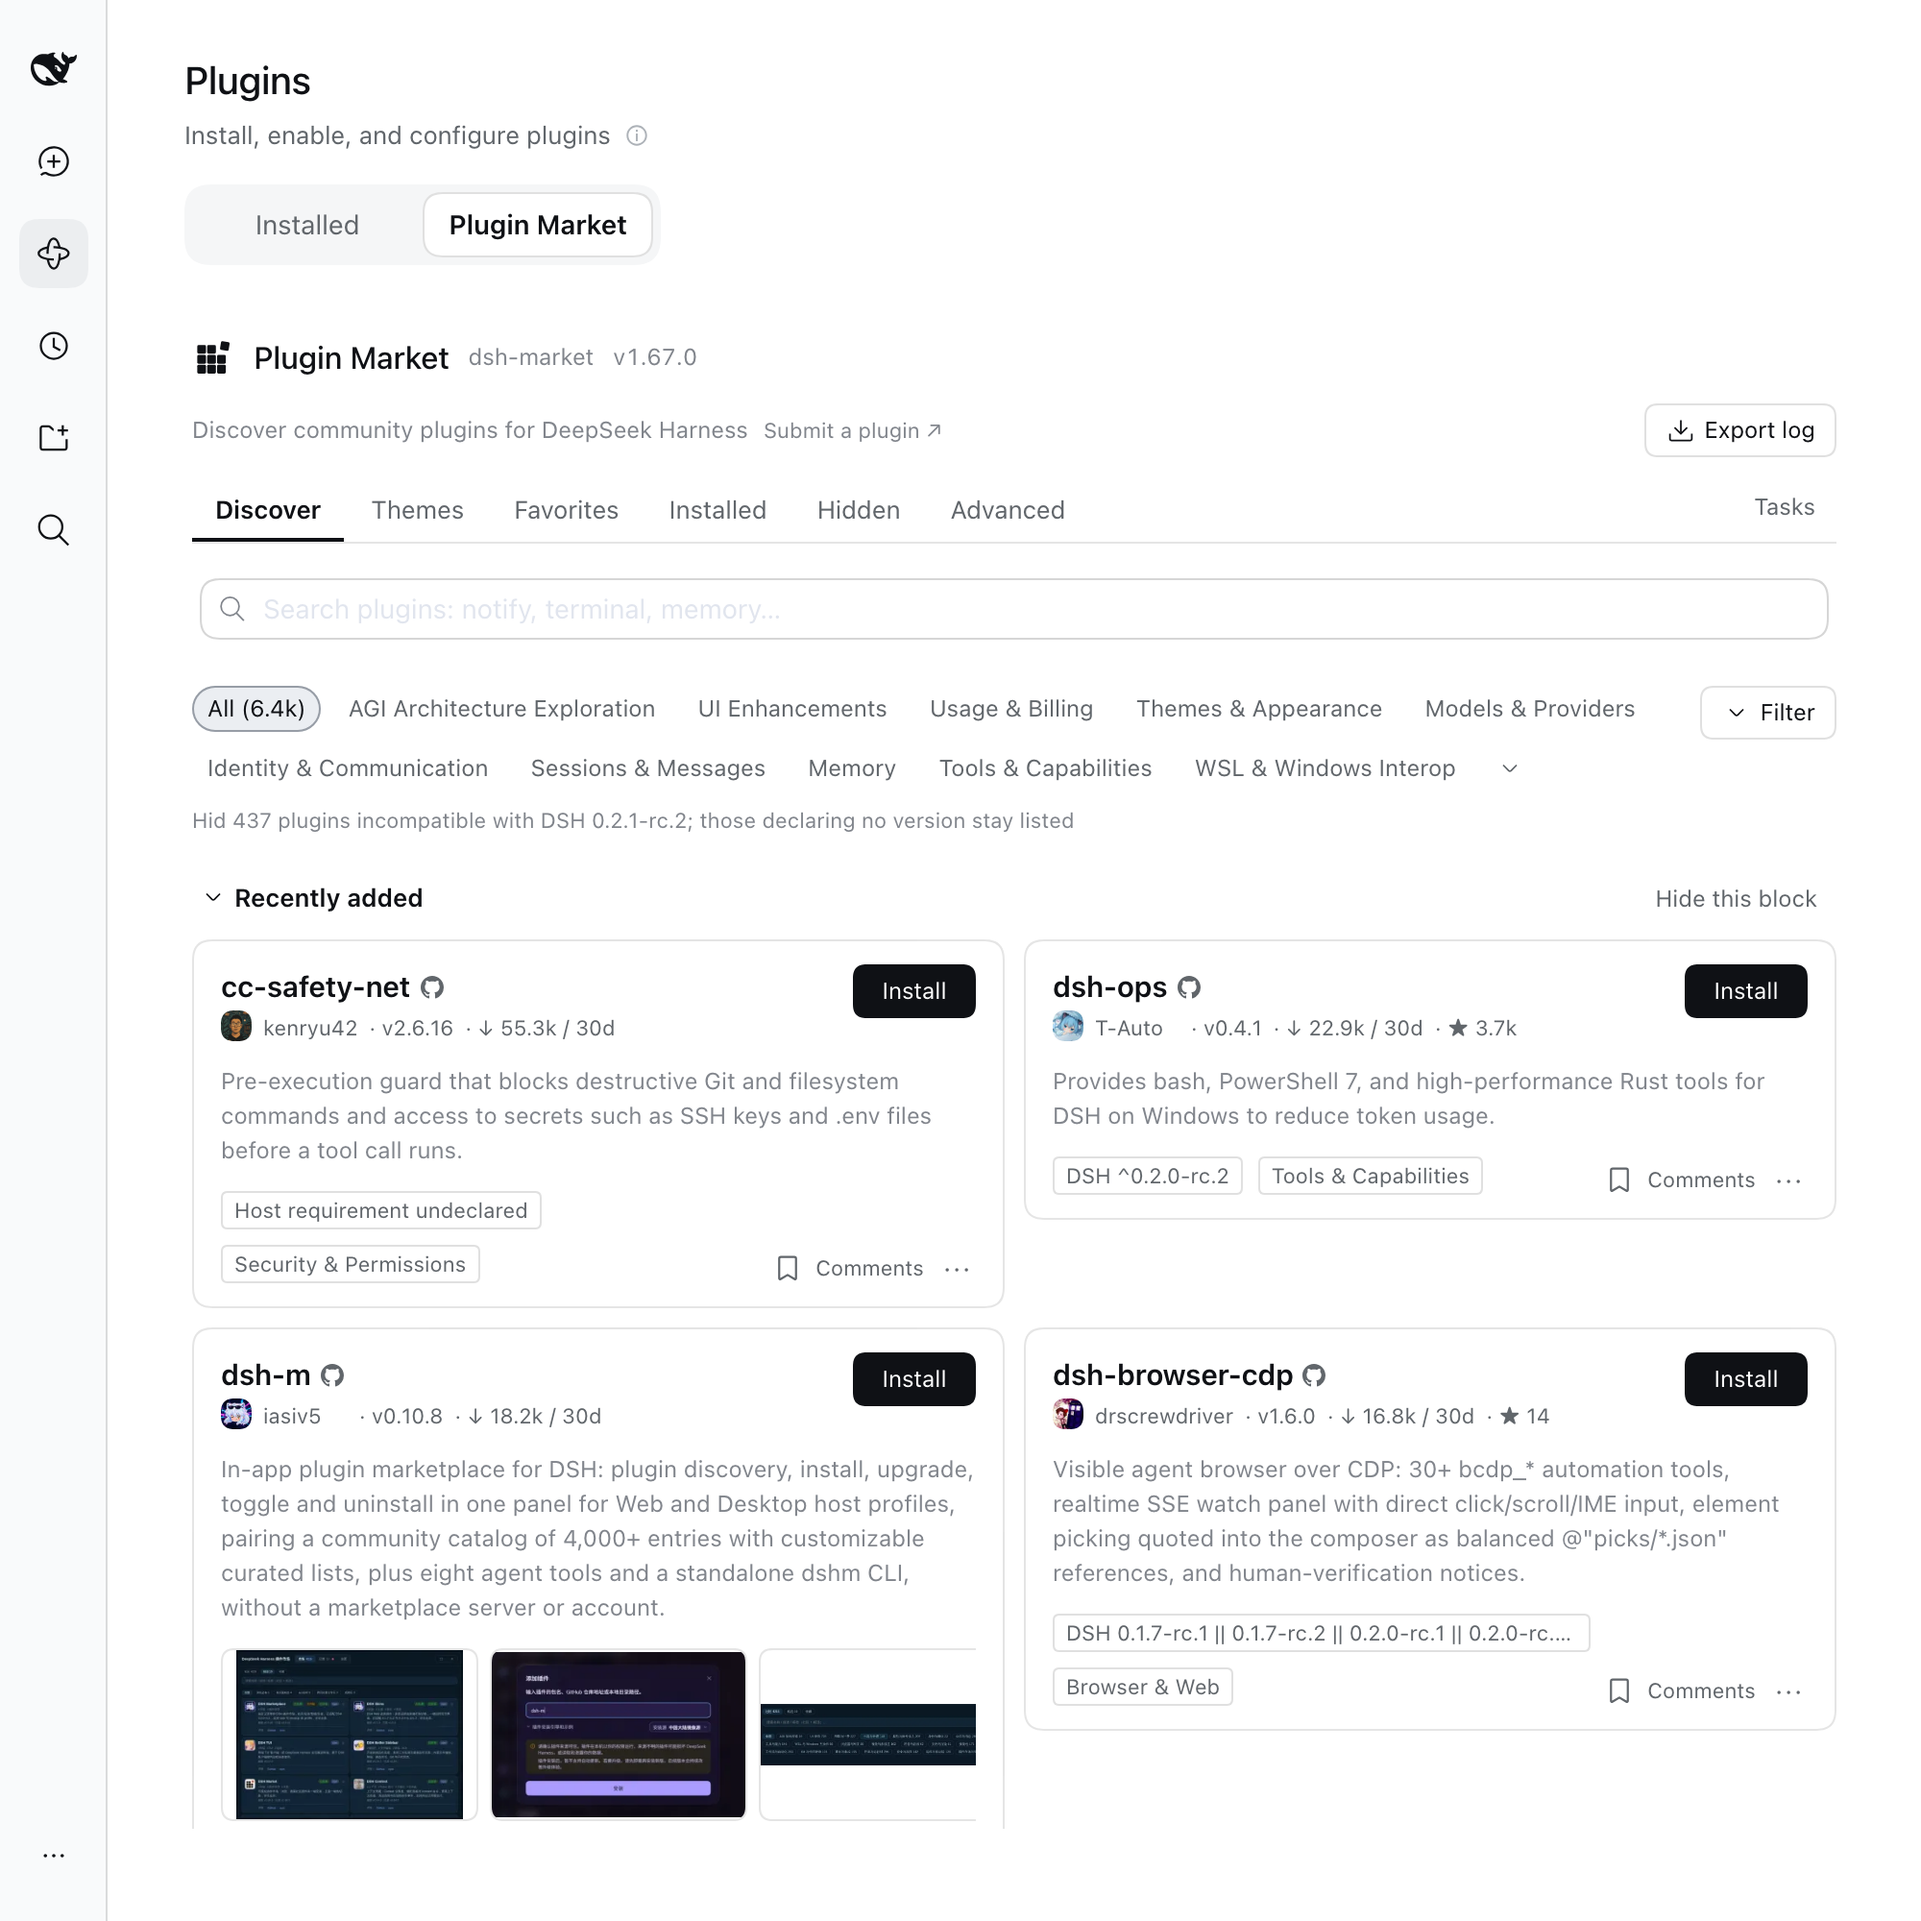
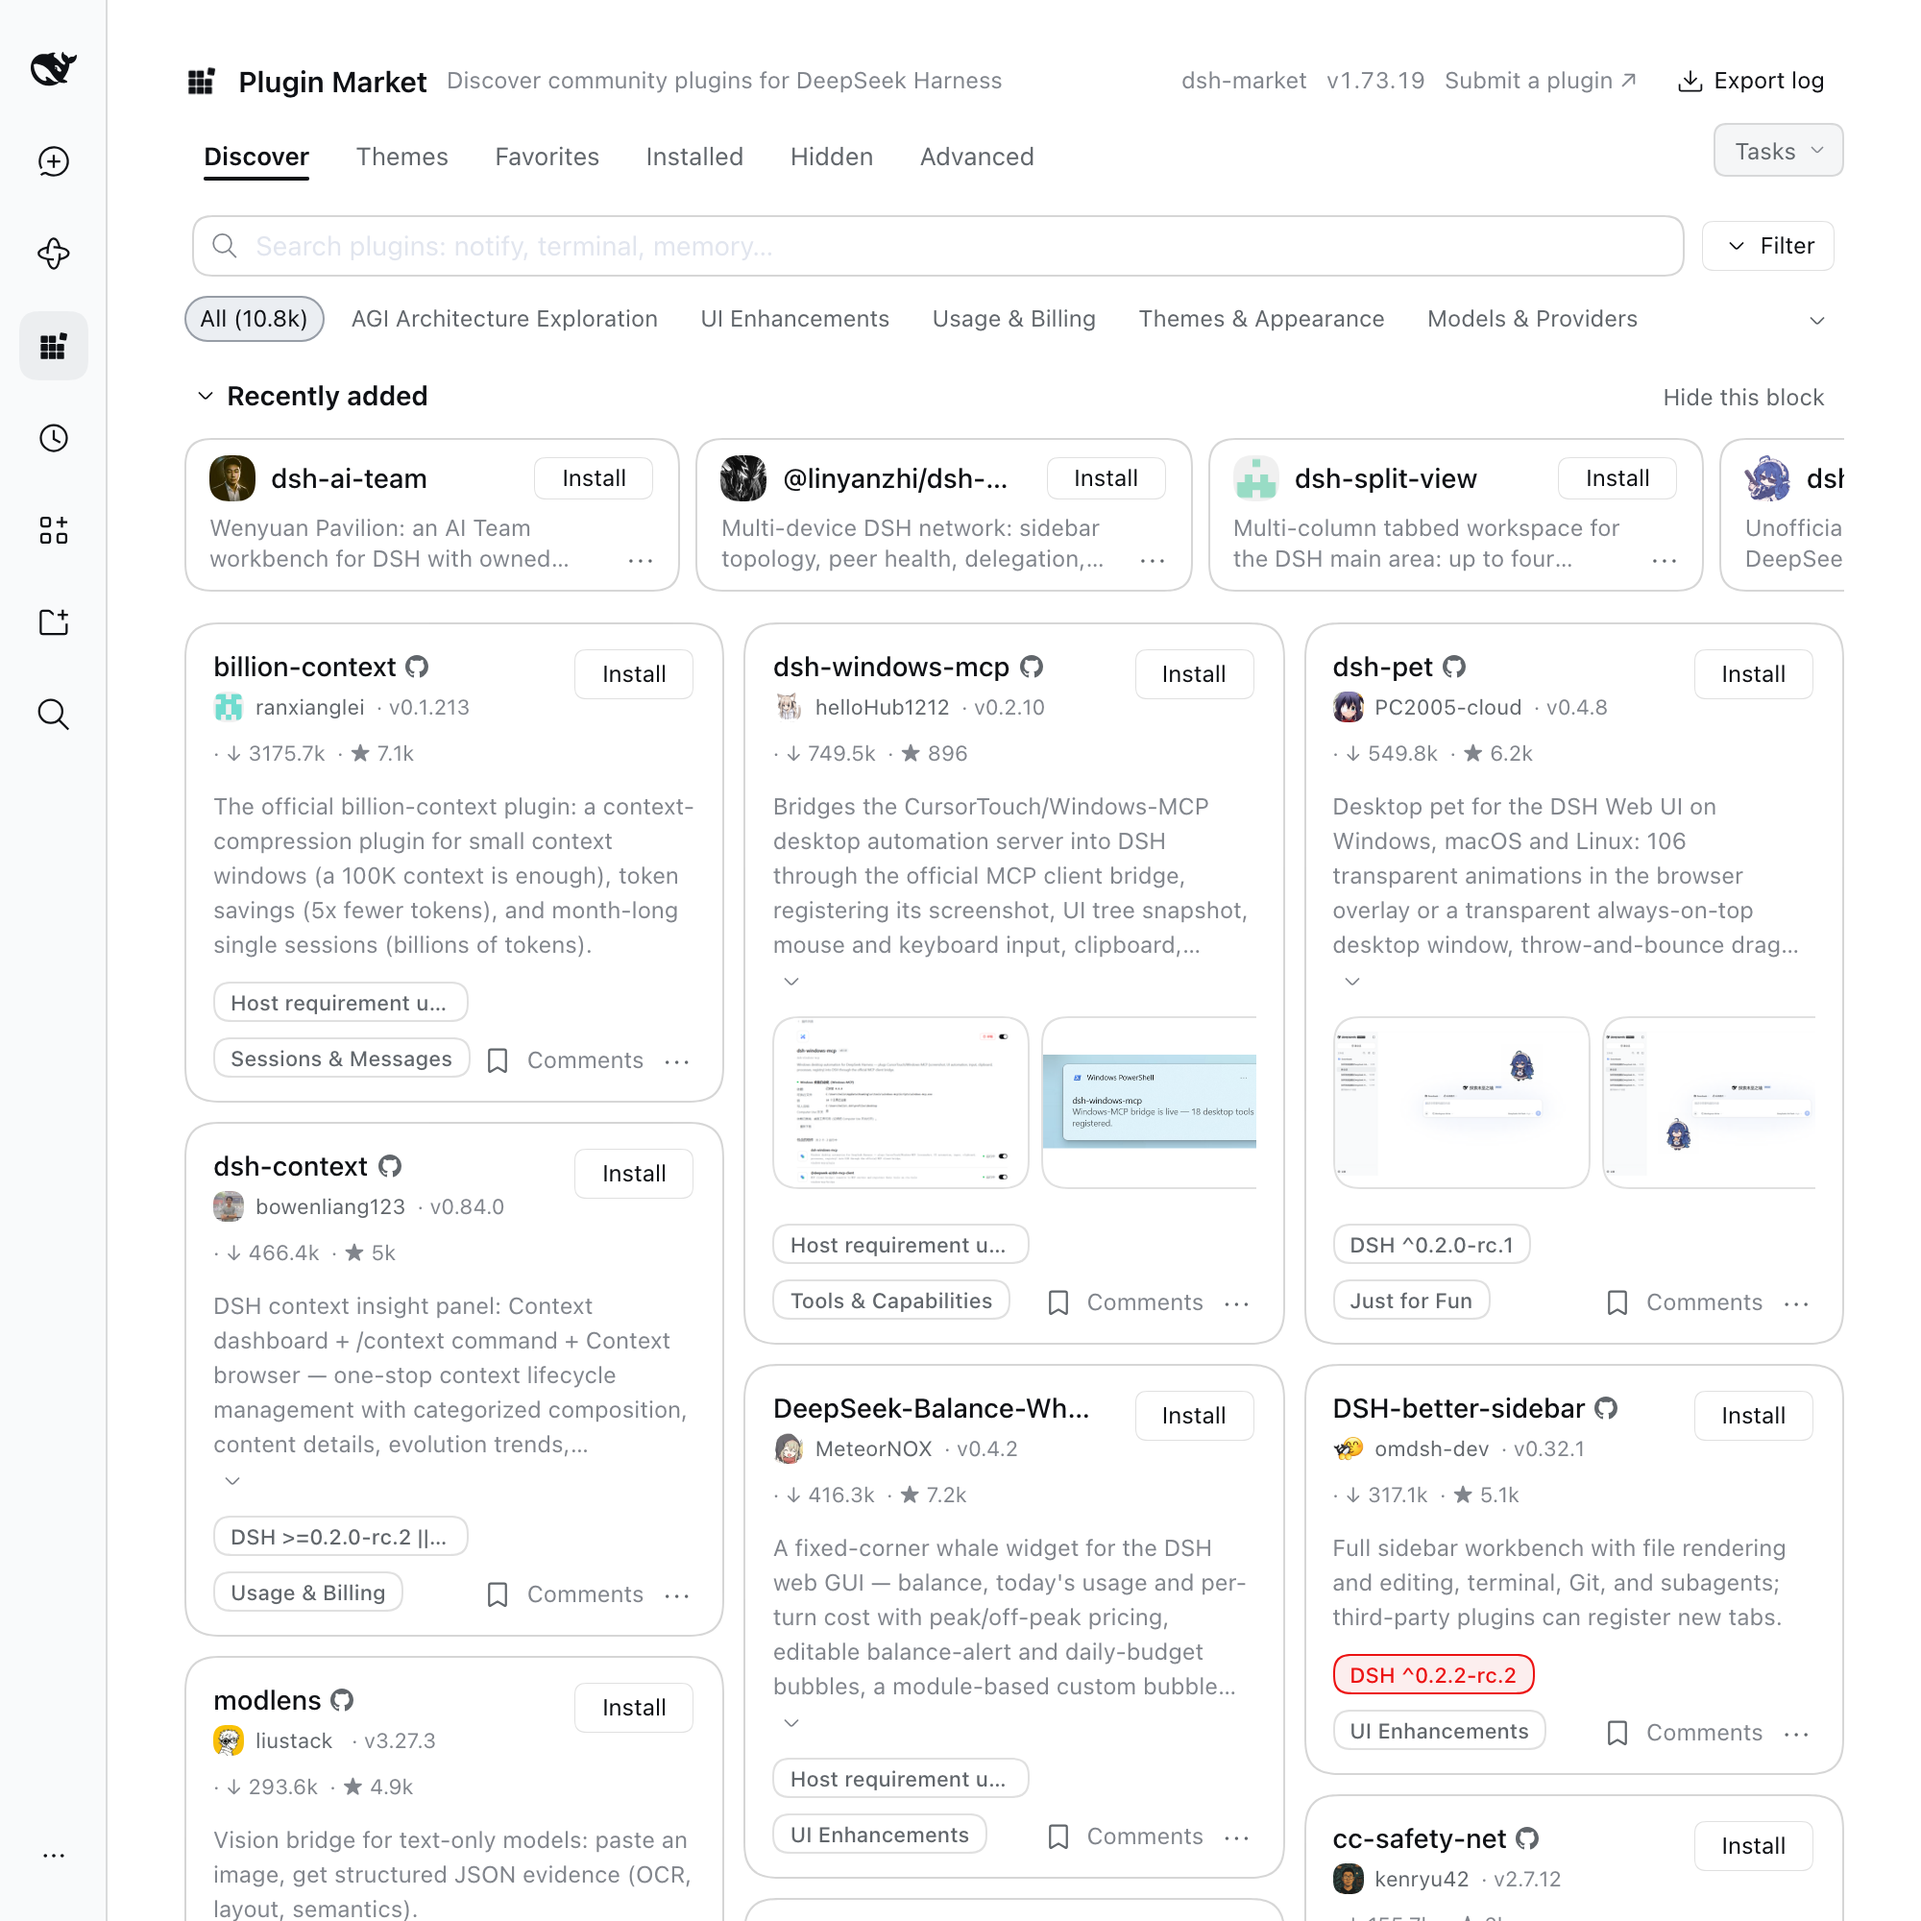
docs: retake the README screenshots on 1.73.19 and refresh the catalog size

diff --git a/README.md b/README.md
@@ -66,12 +66,12 @@ its own dsh: it may be older than the one `npm` would give you (#139).
 
 ## What you get
 
-- **Browse & search** the full community catalog (4200+ plugins, growing daily) — category filters, star counts, top/new sorting, bilingual descriptions that follow your UI language
+- **Browse & search** the full community catalog (10,000+ plugins, growing daily) — category filters, star counts, top/new sorting, bilingual descriptions that follow your UI language
 - **Host-aware discovery** — cards show the DSH requirement declared by `engines.dsh` or lockstep `@deepseek-ai/dsh-*` peers; the compatibility filter hides only confirmed mismatches with the running host. GitHub-only entries read the linked package's manifest, including monorepo subdirectories; Release downloads read the selected release tag, including the current tag behind `latest/download`. Undeclared, malformed or unavailable requirements stay unknown and visible. Public manifest facts are cached; compatibility is evaluated against the running host
 - **Screenshots** — AppStore-style screenshots, auto-carousel when there's more than one, click to preview full-size: author-curated shots show right on the card (zero extra requests); plugins without curated shots fall back to automatic README extraction once you open the install dialog. Images load from GitHub hosting only
 - **Comments** — every card opens the plugin's discussion thread in place. It is the same thread its pages on [dshmarket.com](https://dshmarket.com) and the [catalog](https://awesome-dsh-plugin.com) show, so a plugin has one conversation rather than three. Backed by GitHub Discussions through giscus: it loads when you open it, needs a GitHub account only to post, and the note above it says plainly that opening it contacts giscus.app and GitHub. On local dsh web, reading stays embedded while a dedicated GitHub action opens the exact discussion in a new tab for sign-in and posting, so the cross-site return never carries or depends on the host session
 - **Favorites** — bookmark plugins and themes from Discover or the Themes tab; a dedicated Favorites tab lists them with search, sort, and install actions. Bookmarks persist in the profile's market state (`state.json`); entries that leave the catalog can be cleared in one click
-- **Groups** — organise installed plugins into named groups (rename, delete, and per-group search); a plugin lives in one group and ungrouped is the default. A group carries its own switch: all-on, all-off, or the mixed state its members are really in, so a working set can be switched as a unit without touching the rest. A group holds at most one theme. The grouping itself is local state in the profile's `state.json`
+- **Groups** — organise installed plugins into named groups (rename, delete, and per-group search); a plugin lives in one group and ungrouped is the default. **Collapse all / Expand all** folds the whole list at once. A group carries its own switch: all-on, all-off, or the mixed state its members are really in, so a working set can be switched as a unit without touching the rest. A group holds at most one theme. The grouping itself is local state in the profile's `state.json`
 - **Notes** — write your own one-line description for any installed plugin and it replaces the author's on that row, so a shelf of forty plugins answers "why did I install this" in your words. Stored locally beside groups and favorites, never sent anywhere
 - **Themes** — a dedicated tab for community themes and skins: install → active immediately, switch with one click (themes are mutually exclusive, your choice survives restarts), uninstall to revert
 - **One-click install** — confirm the source, watch live progress; most plugins go live after a page refresh, no restart
